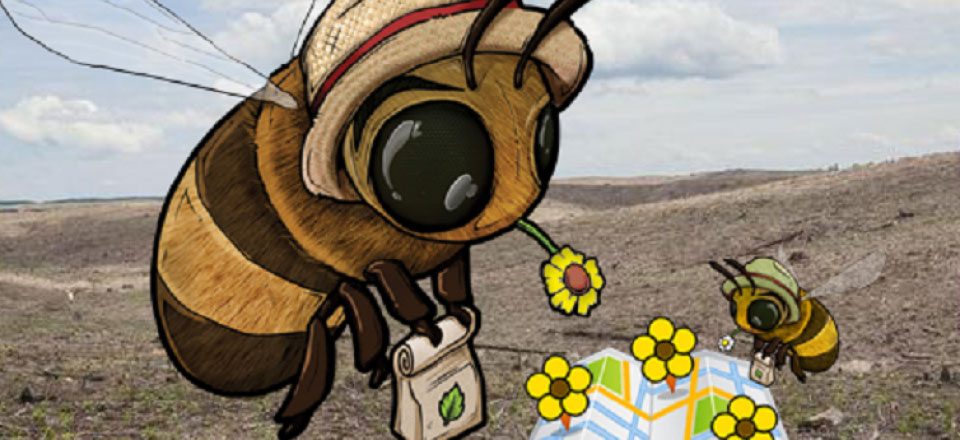
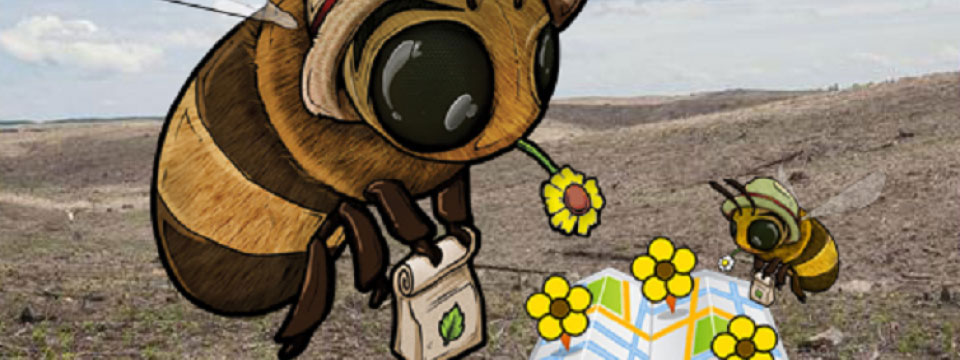
lessen slider height GREEN-1958

diff --git a/source/css/components/_slider.scss b/source/css/components/_slider.scss
@@ -25,7 +25,7 @@
   }
 
   @include breakpoint($desk) {
-    min-height: 445px;
+    min-height: 360px;
   }
 
 }
